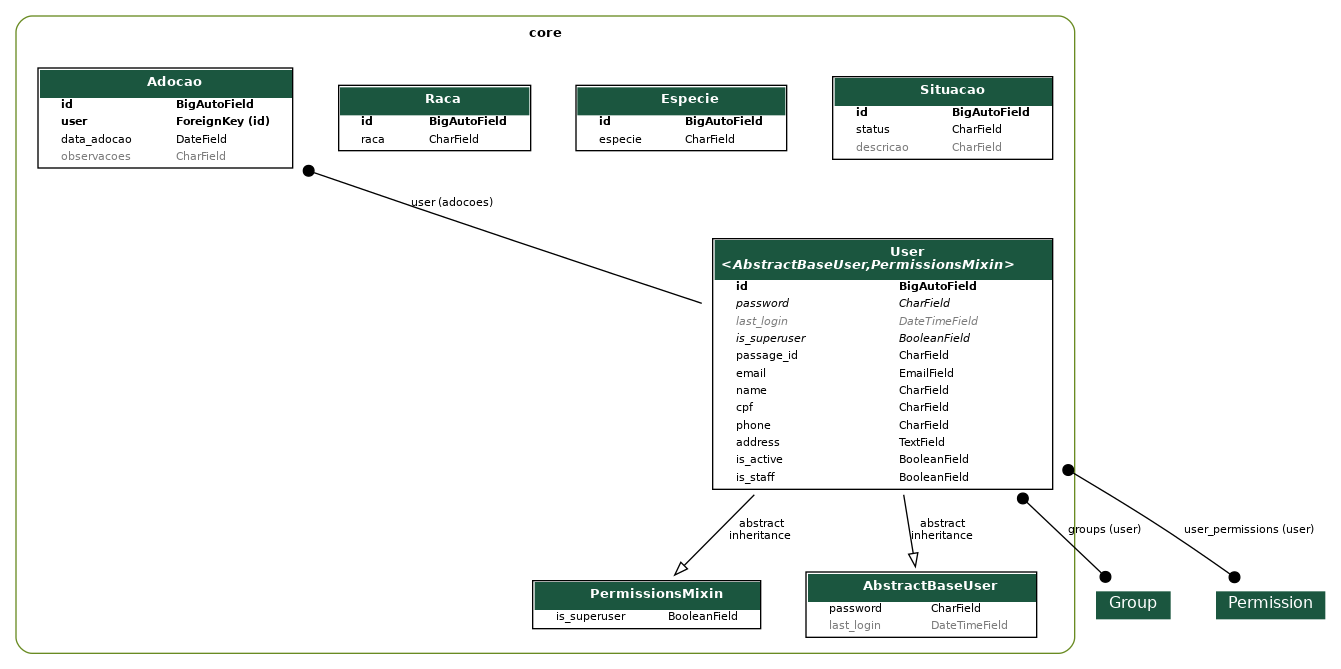
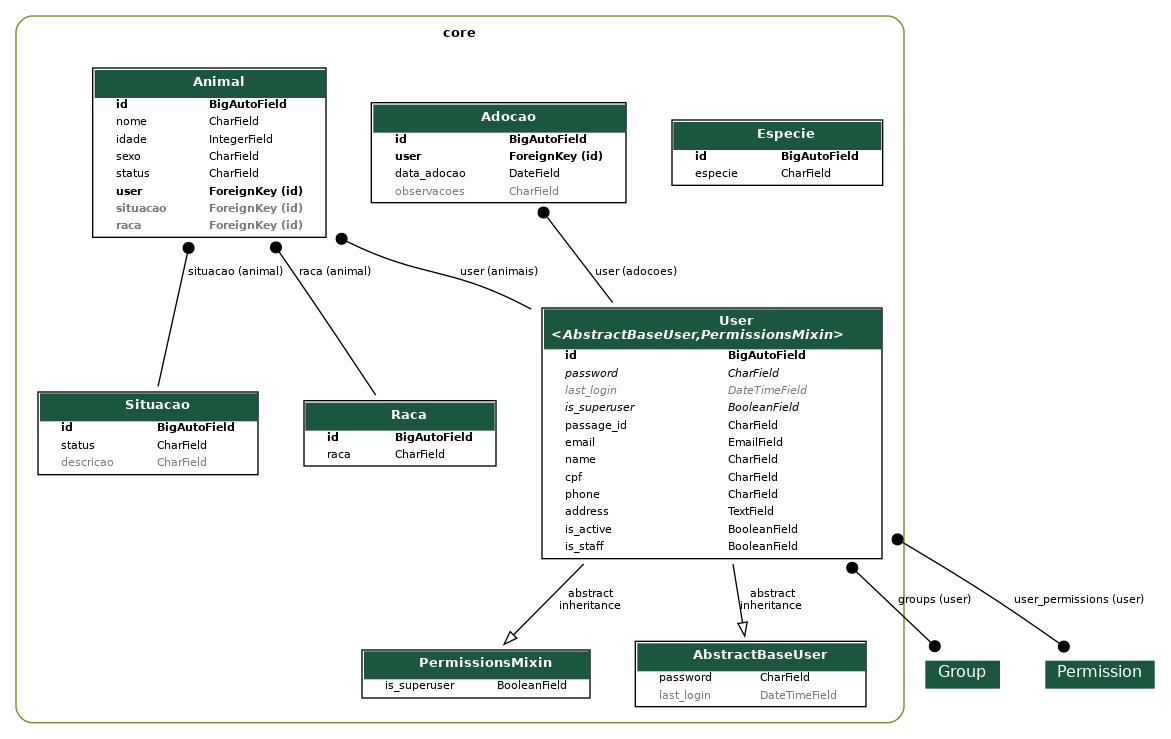
Migrate (Animal)

Changed region(s): [[0.0, 0.0299, 1.0, 0.9865], [0.0307, 0.0, 0.7686, 0.0598]]

diff --git a/core/migrations/0010_animal.py b/core/migrations/0010_animal.py
@@ -1,0 +1,43 @@
+# Generated by Django 5.1 on 2024-08-20 19:34
+
+import django.db.models.deletion
+from django.conf import settings
+from django.db import migrations, models
+
+
+class Migration(migrations.Migration):
+
+    dependencies = [
+        ("core", "0009_rename_raca_raca_raca_adocao"),
+    ]
+
+    operations = [
+        migrations.CreateModel(
+            name="Animal",
+            fields=[
+                ("id", models.BigAutoField(auto_created=True, primary_key=True, serialize=False, verbose_name="ID")),
+                ("nome", models.CharField(max_length=40)),
+                ("idade", models.IntegerField()),
+                ("sexo", models.CharField(max_length=10)),
+                ("status", models.CharField(max_length=100)),
+                (
+                    "raca",
+                    models.ForeignKey(
+                        blank=True, null=True, on_delete=django.db.models.deletion.SET_NULL, to="core.raca"
+                    ),
+                ),
+                (
+                    "situacao",
+                    models.ForeignKey(
+                        blank=True, null=True, on_delete=django.db.models.deletion.SET_NULL, to="core.situacao"
+                    ),
+                ),
+                (
+                    "user",
+                    models.ForeignKey(
+                        on_delete=django.db.models.deletion.CASCADE, related_name="animais", to=settings.AUTH_USER_MODEL
+                    ),
+                ),
+            ],
+        ),
+    ]
